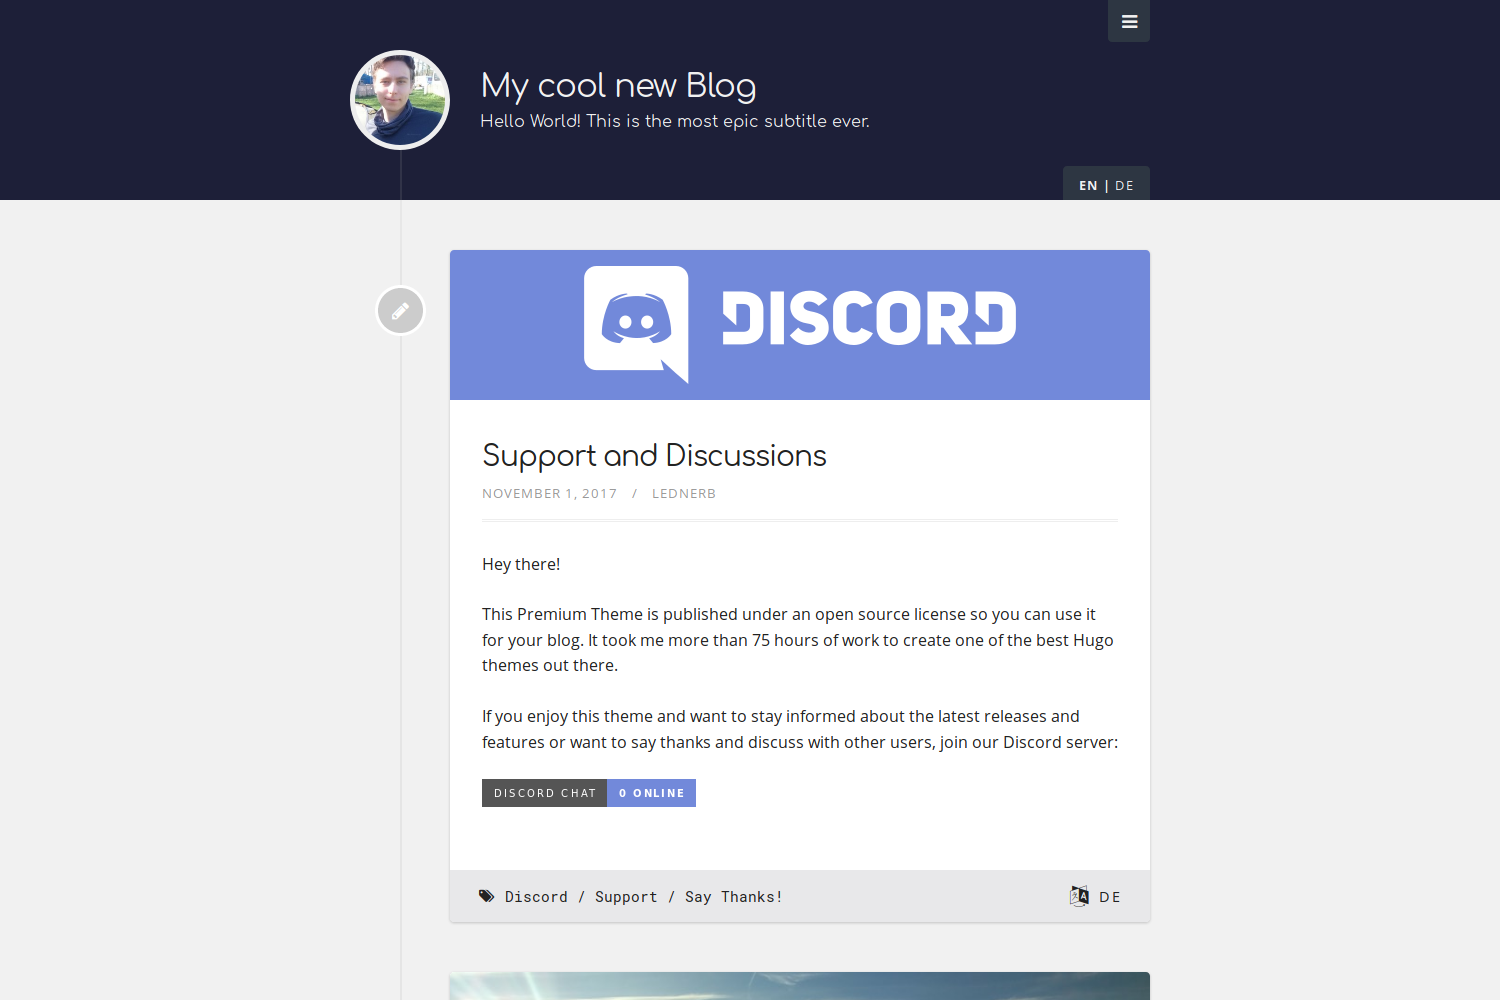
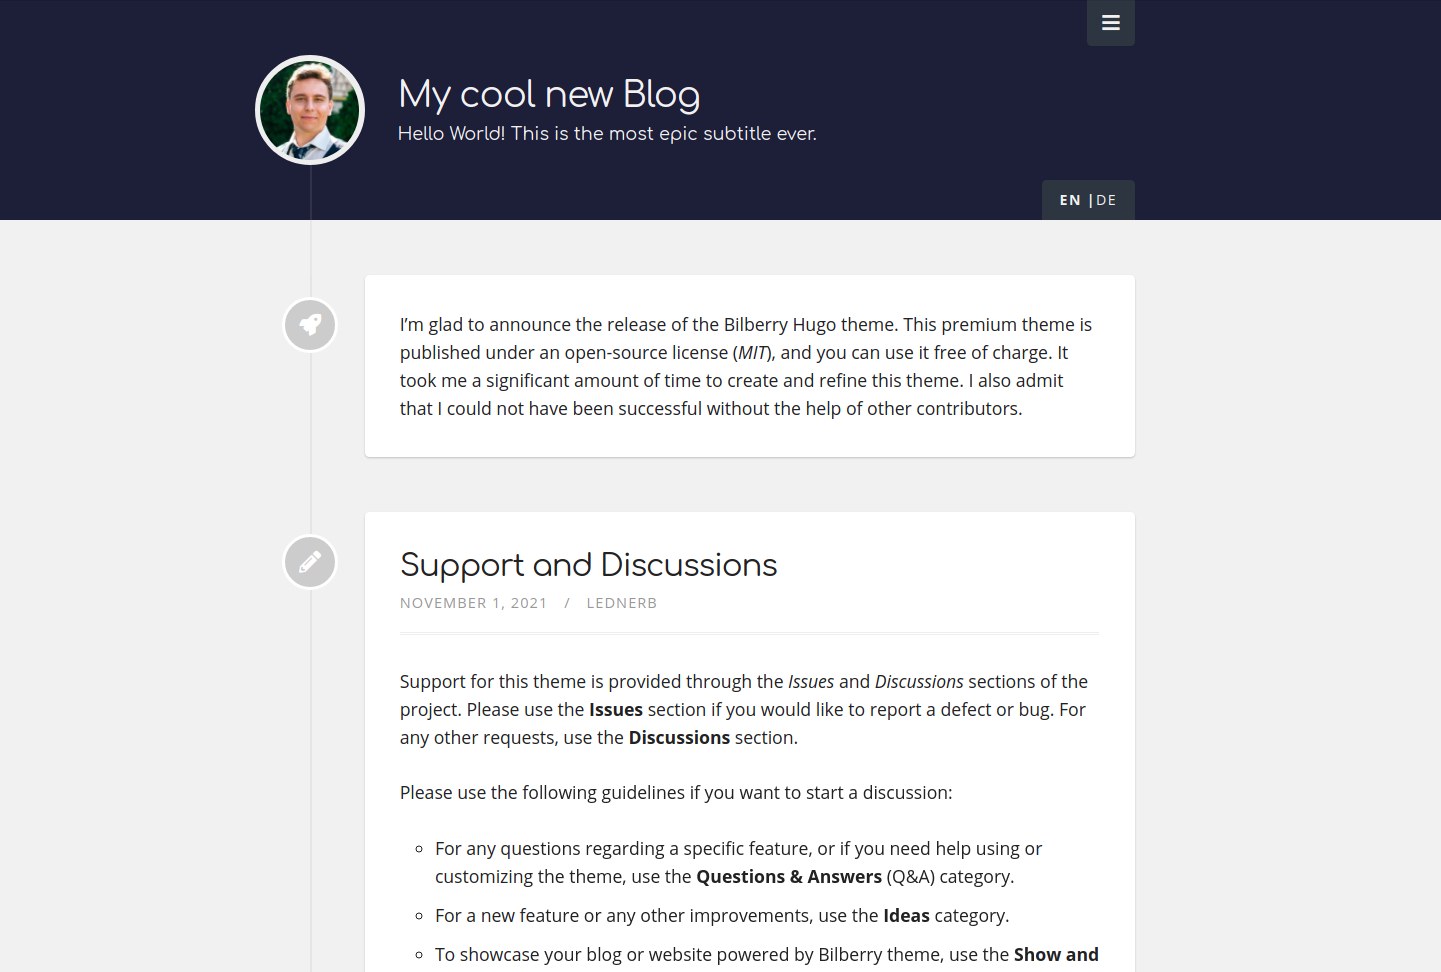
Update example site

diff --git a/exampleSite/content/status/bilberry-theme-released.de.md b/exampleSite/content/status/bilberry-theme-released.de.md
@@ -1,0 +1,11 @@
+---
+date: 2021-12-15T10:45:44+02:00
+
+icon: "fa-rocket"
+showDate: false
+---
+
+Ich freue mich, die Veröffentlichung des Bilberry Hugo-Themes ankündigen zu können.
+Dieses Premium-Theme wird unter einer Open-Source-Lizenz ([MIT](https://github.com/Lednerb/bilberry-hugo-theme/blob/master/LICENSE.md)) veröffentlicht und Sie können es kostenlos verwenden.
+Ich habe viel Zeit gebraucht, um dieses Thema zu erstellen und zu verfeinern.
+Ich gebe auch zu, dass ich ohne die Hilfe anderer Mitwirkender nicht erfolgreich gewesen wäre.
